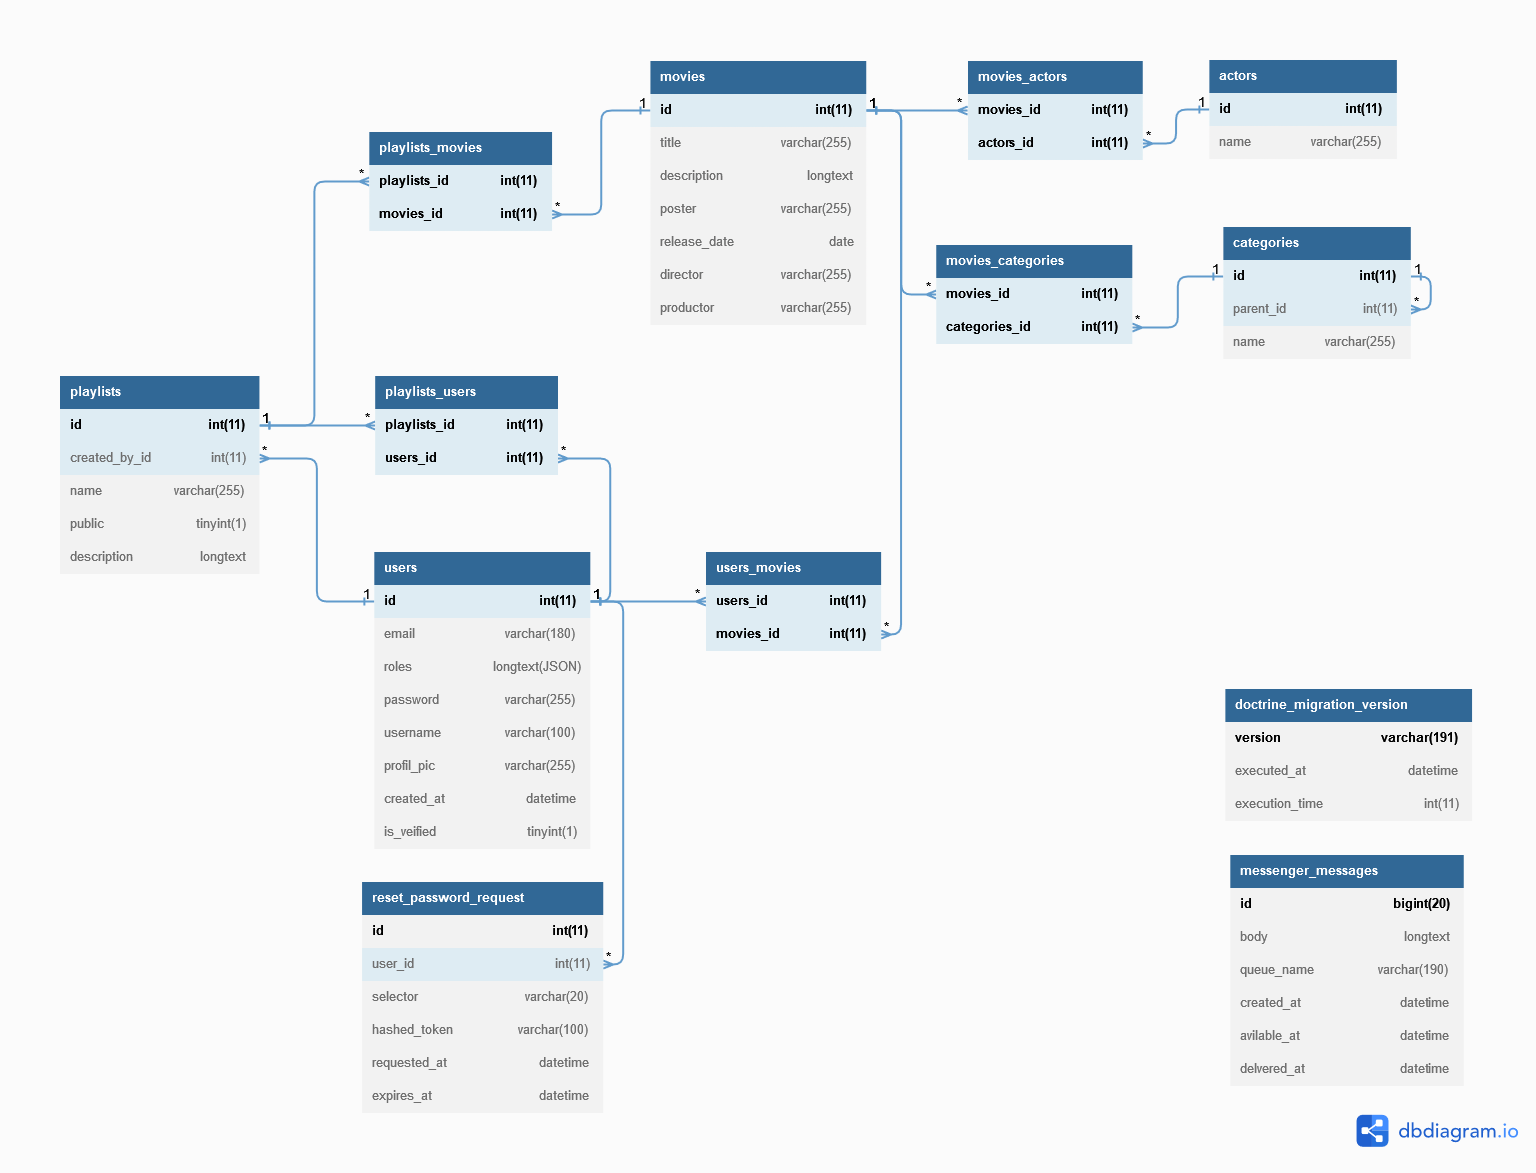
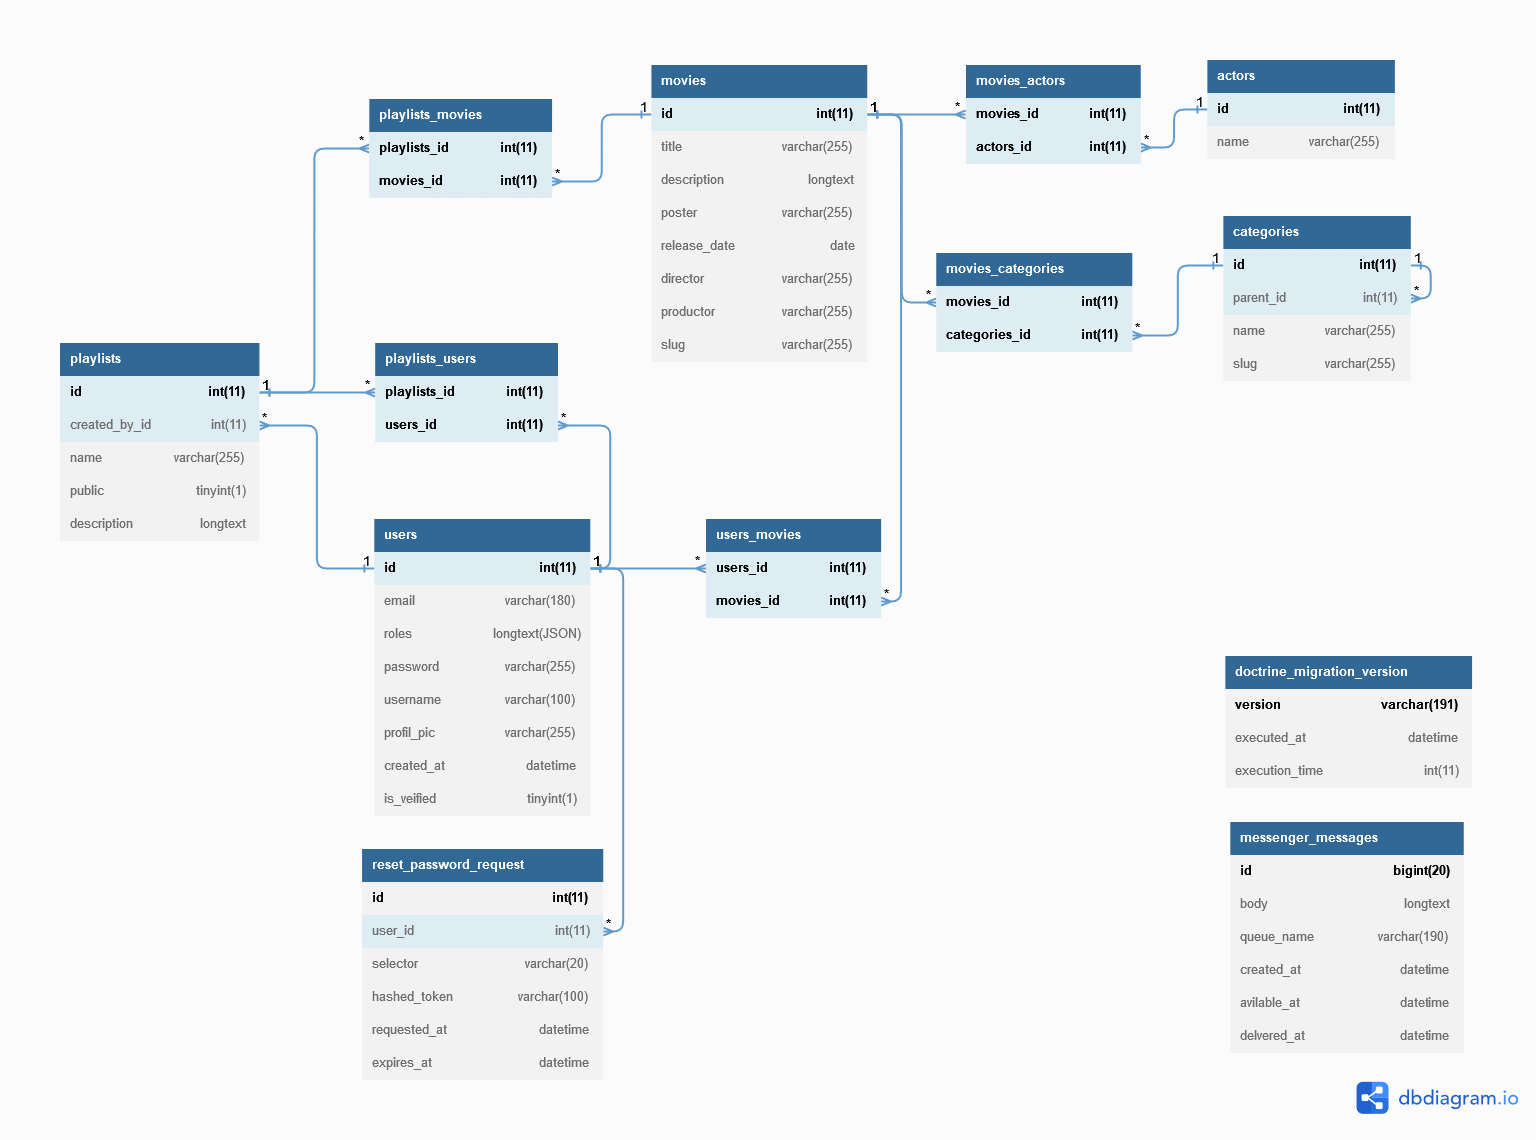
Fixtures et fake data pt1

diff --git a/src/DataFixtures/CategoriesFixtures.php b/src/DataFixtures/CategoriesFixtures.php
@@ -1,0 +1,101 @@
+<?php
+
+namespace App\DataFixtures;
+
+use App\Entity\Categories;
+use Doctrine\Bundle\FixturesBundle\Fixture;
+use Doctrine\Persistence\ObjectManager;
+use Symfony\Component\String\Slugger\SluggerInterface;
+
+class CategoriesFixtures extends Fixture
+{
+    public function __construct(private SluggerInterface $slugger){}
+
+    public function load(ObjectManager $manager): void
+    {
+        // Categories de utiles
+        $this->createCategory('Nouveautés', '', null, $manager);
+        $this->createCategory('Tendances', '', null, $manager);
+
+        // Categories de genre
+        $this->createCategory('action et aventure', '', null, $manager);
+        $this->createCategory('Comédies', '', null, $manager);
+        $this->createCategory('Documentaires', '', null, $manager);
+        $this->createCategory('Drames', '', null, $manager);
+        $this->createCategory('Horreur', '', null, $manager);
+        $this->createCategory('Romance', '', null, $manager);
+        $this->createCategory('SF', '', null, $manager);
+        $this->createCategory('Fantastique', '', null, $manager);
+        $this->createCategory('Sport', '', null, $manager);
+        $this->createCategory('Thrillers', '', null, $manager);
+        $this->createCategory('Policier', '', null, $manager);
+
+        $films = $this->createCategory('Films', '', null, $manager);
+        $this->createCategory('Films de BD et super-héros', '10118',  $films, $manager);
+        $this->createCategory('Films de gangsters', '30140',  $films, $manager);
+        $this->createCategory('Films de guerre', '3373',  $films, $manager);
+        $this->createCategory('Films post-apocalyptiques', '21076',  $films, $manager);
+        $this->createCategory('Films westerns', '7700',  $films, $manager);
+        $this->createCategory('Films français', '58807',  $films, $manager);
+        $this->createCategory('Films d’horreur déjantés', '1155',  $films, $manager);
+        $this->createCategory('Films de monstres', '947',  $films, $manager);
+        $this->createCategory('Films gore', '615',  $films, $manager);
+        $this->createCategory('Films de zombies', '75421',  $films, $manager);
+        $this->createCategory('Films de slashers et de tueurs en série', '8646',  $films, $manager);
+        $this->createCategory('Films pour ados', '2340',  $films, $manager);
+        $this->createCategory('Films jeunesse et famille', '783',  $films, $manager);
+        $this->createCategory('Films fantastiques', '9744',  $films, $manager);
+        $this->createCategory('Films sur les arts martiaux', '8985',  $films, $manager);
+        $this->createCategory('nom', 'slug',  $films, $manager);
+
+
+        $series = $this->createCategory('Séries', '', null, $manager);
+        $this->createCategory('Séries absurdes', '77205',  $series, $manager);
+        $this->createCategory('Séries d’action et d’aventure', '10673',  $series, $manager);
+        $this->createCategory('Séries aisatiques', '85543',  $series, $manager);
+        $this->createCategory('Séries de super-héros', '53717',  $series, $manager);
+        $this->createCategory('Séries bonne humeur', '16688',  $series, $manager);
+        $this->createCategory('Séries de complots', '27607',  $series, $manager);
+        $this->createCategory('Séries dramatiques', '26018',  $series, $manager);
+        $this->createCategory('Séries effrayantes', '25989',  $series, $manager);
+        $this->createCategory('Séries émotion', '25833',  $series, $manager);
+        $this->createCategory('Séries françaises', '62041',  $series, $manager);
+        $this->createCategory('Séries judiciaires', '25801',  $series, $manager);
+        $this->createCategory('Séries nostalgie', '2008977',  $series, $manager);
+        $this->createCategory('Séries pour ados', '60951',  $series, $manager);
+        $this->createCategory('Séries psychologiques', '26127',  $series, $manager);
+        $this->createCategory('Séries avec voyage dans le temps', '75435',  $series, $manager);
+
+
+        $animes = $this->createCategory('Animes', '', null, $manager);
+        $this->createCategory('Animation inspirée d’un jeu vidéo', '93081',  $animes, $manager);
+        $this->createCategory('Animation pour adultes', '11881',  $animes, $manager);
+        $this->createCategory('Anime comique', '9302',  $animes, $manager);
+        $this->createCategory('Anime d’action', '2653',  $animes, $manager);
+        $this->createCategory('Anime dramatique', '452',  $animes, $manager);
+        $this->createCategory('Anime fantastique', '11146',  $animes, $manager);
+        $this->createCategory('Anime d’horreur', '10695',  $animes, $manager);
+        $this->createCategory('Anime SF', '2729',  $animes, $manager);
+        $this->createCategory('Séries d’animation japonaise', '6721',  $animes, $manager);
+        $this->createCategory('Autres séries d’animation', '7424',  $animes, $manager);
+
+        $manager->flush();
+    }
+
+    public function createCategory(string $name, string $slug, Categories $parent = null, ObjectManager $manager)
+    {
+        $category = new Categories();
+        $category->setName($name);
+
+        if ($slug == '') {
+            $category->setSlug($this->slugger->slug($category->getName())->lower());
+        } else {
+            $category->setSlug($slug);
+        }
+
+        $category->setParent($parent);
+        $manager->persist($category);
+
+        return $category;
+    }
+}

diff --git a/migrations/Version20230410155524.php b/migrations/Version20230410155524.php
@@ -10,7 +10,7 @@ use Doctrine\Migrations\AbstractMigration;
 /**
  * Auto-generated Migration: Please modify to your needs!
  */
-final class Version20230410102621 extends AbstractMigration
+final class Version20230410155524 extends AbstractMigration
 {
     public function getDescription(): string
     {
@@ -22,9 +22,9 @@ final class Version20230410102621 extends AbstractMigration
         // this up() migration is auto-generated, please modify it to your needs
         $this->addSql('CREATE TABLE actors (id INT AUTO_INCREMENT NOT NULL, name VARCHAR(255) NOT NULL, PRIMARY KEY(id)) DEFAULT CHARACTER SET utf8mb4 COLLATE `utf8mb4_unicode_ci` ENGINE = InnoDB');
         $this->addSql('CREATE TABLE actors_movies (actors_id INT NOT NULL, movies_id INT NOT NULL, INDEX IDX_B3012DC07168CF59 (actors_id), INDEX IDX_B3012DC053F590A4 (movies_id), PRIMARY KEY(actors_id, movies_id)) DEFAULT CHARACTER SET utf8mb4 COLLATE `utf8mb4_unicode_ci` ENGINE = InnoDB');
-        $this->addSql('CREATE TABLE categories (id INT AUTO_INCREMENT NOT NULL, parent_id INT DEFAULT NULL, name VARCHAR(255) NOT NULL, INDEX IDX_3AF34668727ACA70 (parent_id), PRIMARY KEY(id)) DEFAULT CHARACTER SET utf8mb4 COLLATE `utf8mb4_unicode_ci` ENGINE = InnoDB');
+        $this->addSql('CREATE TABLE categories (id INT AUTO_INCREMENT NOT NULL, parent_id INT DEFAULT NULL, name VARCHAR(255) NOT NULL, slug VARCHAR(255) NOT NULL, INDEX IDX_3AF34668727ACA70 (parent_id), PRIMARY KEY(id)) DEFAULT CHARACTER SET utf8mb4 COLLATE `utf8mb4_unicode_ci` ENGINE = InnoDB');
         $this->addSql('CREATE TABLE categories_movies (categories_id INT NOT NULL, movies_id INT NOT NULL, INDEX IDX_CE77D308A21214B7 (categories_id), INDEX IDX_CE77D30853F590A4 (movies_id), PRIMARY KEY(categories_id, movies_id)) DEFAULT CHARACTER SET utf8mb4 COLLATE `utf8mb4_unicode_ci` ENGINE = InnoDB');
-        $this->addSql('CREATE TABLE movies (id INT AUTO_INCREMENT NOT NULL, title VARCHAR(255) NOT NULL, description LONGTEXT DEFAULT NULL, poster VARCHAR(255) NOT NULL, release_date DATE NOT NULL, director VARCHAR(255) NOT NULL, productor VARCHAR(255) NOT NULL, PRIMARY KEY(id)) DEFAULT CHARACTER SET utf8mb4 COLLATE `utf8mb4_unicode_ci` ENGINE = InnoDB');
+        $this->addSql('CREATE TABLE movies (id INT AUTO_INCREMENT NOT NULL, title VARCHAR(255) NOT NULL, description LONGTEXT DEFAULT NULL, poster VARCHAR(255) NOT NULL, release_date DATE NOT NULL, director VARCHAR(255) NOT NULL, productor VARCHAR(255) NOT NULL, slug VARCHAR(255) NOT NULL, PRIMARY KEY(id)) DEFAULT CHARACTER SET utf8mb4 COLLATE `utf8mb4_unicode_ci` ENGINE = InnoDB');
         $this->addSql('CREATE TABLE playlists (id INT AUTO_INCREMENT NOT NULL, created_by_id INT NOT NULL, name VARCHAR(255) NOT NULL, public TINYINT(1) NOT NULL, description LONGTEXT DEFAULT NULL, INDEX IDX_5E06116FB03A8386 (created_by_id), PRIMARY KEY(id)) DEFAULT CHARACTER SET utf8mb4 COLLATE `utf8mb4_unicode_ci` ENGINE = InnoDB');
         $this->addSql('CREATE TABLE playlists_movies (playlists_id INT NOT NULL, movies_id INT NOT NULL, INDEX IDX_2ECB6AB09F70CF56 (playlists_id), INDEX IDX_2ECB6AB053F590A4 (movies_id), PRIMARY KEY(playlists_id, movies_id)) DEFAULT CHARACTER SET utf8mb4 COLLATE `utf8mb4_unicode_ci` ENGINE = InnoDB');
         $this->addSql('CREATE TABLE playlists_users (playlists_id INT NOT NULL, users_id INT NOT NULL, INDEX IDX_79D016AE9F70CF56 (playlists_id), INDEX IDX_79D016AE67B3B43D (users_id), PRIMARY KEY(playlists_id, users_id)) DEFAULT CHARACTER SET utf8mb4 COLLATE `utf8mb4_unicode_ci` ENGINE = InnoDB');
@@ -34,7 +34,7 @@ final class Version20230410102621 extends AbstractMigration
         $this->addSql('CREATE TABLE messenger_messages (id BIGINT AUTO_INCREMENT NOT NULL, body LONGTEXT NOT NULL, headers LONGTEXT NOT NULL, queue_name VARCHAR(190) NOT NULL, created_at DATETIME NOT NULL, available_at DATETIME NOT NULL, delivered_at DATETIME DEFAULT NULL, INDEX IDX_75EA56E0FB7336F0 (queue_name), INDEX IDX_75EA56E0E3BD61CE (available_at), INDEX IDX_75EA56E016BA31DB (delivered_at), PRIMARY KEY(id)) DEFAULT CHARACTER SET utf8mb4 COLLATE `utf8mb4_unicode_ci` ENGINE = InnoDB');
         $this->addSql('ALTER TABLE actors_movies ADD CONSTRAINT FK_B3012DC07168CF59 FOREIGN KEY (actors_id) REFERENCES actors (id) ON DELETE CASCADE');
         $this->addSql('ALTER TABLE actors_movies ADD CONSTRAINT FK_B3012DC053F590A4 FOREIGN KEY (movies_id) REFERENCES movies (id) ON DELETE CASCADE');
-        $this->addSql('ALTER TABLE categories ADD CONSTRAINT FK_3AF34668727ACA70 FOREIGN KEY (parent_id) REFERENCES categories (id)');
+        $this->addSql('ALTER TABLE categories ADD CONSTRAINT FK_3AF34668727ACA70 FOREIGN KEY (parent_id) REFERENCES categories (id) ON DELETE CASCADE');
         $this->addSql('ALTER TABLE categories_movies ADD CONSTRAINT FK_CE77D308A21214B7 FOREIGN KEY (categories_id) REFERENCES categories (id) ON DELETE CASCADE');
         $this->addSql('ALTER TABLE categories_movies ADD CONSTRAINT FK_CE77D30853F590A4 FOREIGN KEY (movies_id) REFERENCES movies (id) ON DELETE CASCADE');
         $this->addSql('ALTER TABLE playlists ADD CONSTRAINT FK_5E06116FB03A8386 FOREIGN KEY (created_by_id) REFERENCES users (id)');

diff --git a/src/DataFixtures/UsersFixtures.php b/src/DataFixtures/UsersFixtures.php
@@ -2,15 +2,42 @@
 
 namespace App\DataFixtures;
 
+use App\Entity\Users;
 use Doctrine\Bundle\FixturesBundle\Fixture;
 use Doctrine\Persistence\ObjectManager;
+use Symfony\Component\PasswordHasher\Hasher\UserPasswordHasherInterface;
+use Symfony\Component\String\Slugger\SluggerInterface;
+use Faker;
 
-class UsersFixtures extends Fixture
+class UserFixtures extends Fixture
 {
+    public function __construct(
+        private UserPasswordHasherInterface $passwordEncoder,
+        private SluggerInterface $slugger 
+    ){}
+    
     public function load(ObjectManager $manager): void
     {
-        // $product = new Product();
-        // $manager->persist($product);
+        $admin = new Users();
+        $admin->setEmail('admin@cineflix.fr');
+        $admin->setUsername('Admin');
+        $admin->setPassword(
+            $this->passwordEncoder->hashPassword($admin, 'admin')
+        );
+        $admin->setRoles(['ROLE_ADMIN']);
+        $manager->persist($admin);
+
+        $faker = Faker\Factory::create('fr_FR');
+
+        for($usr = 1; $usr <= 5; $usr++){
+            $user = new Users();
+            $user->setEmail($faker->email);
+            $user->setUsername($faker->userName);
+            $user->setPassword(
+                $this->passwordEncoder->hashPassword($user, 'secret')
+            );
+            $manager->persist($user);
+        }
 
         $manager->flush();
     }

diff --git a/src/DataFixtures/MoviesFixtures.php b/src/DataFixtures/MoviesFixtures.php
@@ -2,15 +2,36 @@
 
 namespace App\DataFixtures;
 
+use App\Entity\Movies;
 use Doctrine\Bundle\FixturesBundle\Fixture;
 use Doctrine\Persistence\ObjectManager;
+use Symfony\Component\String\Slugger\SluggerInterface;
+use Faker;
 
 class MoviesFixtures extends Fixture
 {
+
+    public function __construct(private SluggerInterface $slugger) {}
+
     public function load(ObjectManager $manager): void
     {
-        // $product = new Product();
-        // $manager->persist($product);
+        $faker = Faker\Factory::create('fr_FR');
+
+        for ($mov = 1; $mov <= 100; $mov++) {
+            $movie = new Movies();
+            $movie->setTitle($faker->text(30));
+            $movie->setDescription($faker->text());
+            $movie->setPoster($faker->imageUrl());
+            $movie->setReleaseDate($faker->dateTimeThisDecade()); // $faker->year()
+            $movie->setDirector($faker->firstName() . ' ' . $faker->lastName());
+            $movie->setProductor($faker->firstName() . ' ' . $faker->lastName());
+            $movie->setSlug($this->$slugger->slug($movie->getTitle())->lower());
+            $movie->setCategories($categories);
+
+            $manager->persist($movie);
+        }
+
+        $manager->flush();
 
         $manager->flush();
     }

diff --git a/src/Entity/Categories.php b/src/Entity/Categories.php
@@ -19,6 +19,7 @@ class Categories
     private ?string $name = null;
 
     #[ORM\ManyToOne(targetEntity: self::class, inversedBy: 'categories')]
+    #[ORM\JoinColumn(onDelete: 'CASCADE')]
     private ?self $parent = null;
 
     #[ORM\OneToMany(mappedBy: 'parent', targetEntity: self::class)]
@@ -26,6 +27,9 @@ class Categories
 
     #[ORM\ManyToMany(targetEntity: Movies::class, inversedBy: 'categories')]
     private Collection $Movies_Categories;
+
+    #[ORM\Column(length: 255)]
+    private ?string $slug = null;
 
     public function __construct()
     {
@@ -112,6 +116,18 @@ class Categories
     public function removeMoviesCategory(Movies $moviesCategory): self
     {
         $this->Movies_Categories->removeElement($moviesCategory);
+
+        return $this;
+    }
+
+    public function getSlug(): ?string
+    {
+        return $this->slug;
+    }
+
+    public function setSlug(string $slug): self
+    {
+        $this->slug = $slug;
 
         return $this;
     }

diff --git a/src/Entity/Movies.php b/src/Entity/Movies.php
@@ -43,6 +43,9 @@ class Movies
     #[ORM\ManyToMany(targetEntity: Categories::class, mappedBy: 'Movies_Categories')]
     private Collection $categories;
 
+    #[ORM\Column(length: 255)]
+    private ?string $slug = null;
+
     public function __construct()
     {
         $this->playlists = new ArrayCollection();
@@ -196,6 +199,18 @@ class Movies
         if ($this->categories->removeElement($category)) {
             $category->removeMoviesCategory($this);
         }
+
+        return $this;
+    }
+
+    public function getSlug(): ?string
+    {
+        return $this->slug;
+    }
+
+    public function setSlug(string $slug): self
+    {
+        $this->slug = $slug;
 
         return $this;
     }

diff --git a/src/DataFixtures/ActorsFixtures.php b/src/DataFixtures/ActorsFixtures.php
@@ -1,0 +1,24 @@
+<?php
+
+namespace App\DataFixtures;
+
+use App\Entity\Actors;
+use Doctrine\Bundle\FixturesBundle\Fixture;
+use Doctrine\Persistence\ObjectManager;
+use Faker;
+
+class ActorsFixtures extends Fixture
+{
+    public function load(ObjectManager $manager): void
+    {
+        $faker = Faker\Factory::create('us_US');
+
+        for($act = 1; $act <= 50; $act++){
+            $actor = new Actors();
+            $actor->setName($faker->firstName() . ' ' .$faker->lastName());
+            $manager->persist($actor);
+        }
+
+        $manager->flush();
+    }
+}

diff --git a/src/DataFixtures/PlaylistsFixtures.php b/src/DataFixtures/PlaylistsFixtures.php
@@ -4,6 +4,7 @@ namespace App\DataFixtures;
 
 use Doctrine\Bundle\FixturesBundle\Fixture;
 use Doctrine\Persistence\ObjectManager;
+// use Faker;
 
 class PlaylistsFixtures extends Fixture
 {
